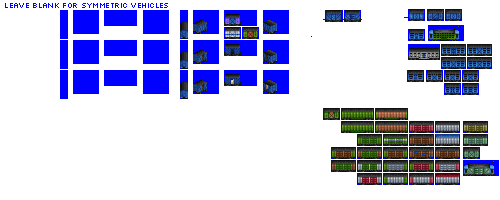
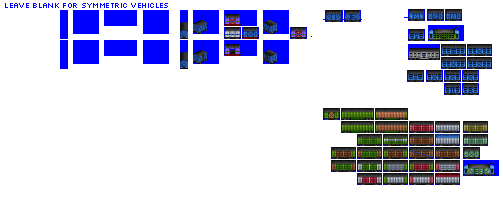
Change: proof-of-concept for repainting box vans

diff --git a/src/vehicles/box_cars.py b/src/vehicles/box_cars.py
@@ -12,7 +12,7 @@ def main():
     consist.add_unit(type=FreightCar,
                      vehicle_length=4)
 
-    
+
     #--------------- pony ----------------------------------------------------------------------
 
     # only type A for gen 1
@@ -23,9 +23,10 @@ def main():
                             subtype='A')
 
     consist.add_unit(type=FreightCar,
-                     vehicle_length=4)
+                     vehicle_length=4,
+                     chassis='2_axle_filled_16px')
 
-    
+
     # no new type A for gen 2, gen 1 type A continues
 
     consist = BoxCarConsist(roster='pony',
@@ -36,7 +37,7 @@ def main():
     consist.add_unit(type=FreightCar,
                      vehicle_length=6)
 
-    
+
     consist = BoxCarConsist(roster='pony',
                             base_numeric_id=560,
                             gen=3,
@@ -45,7 +46,7 @@ def main():
     consist.add_unit(type=FreightCar,
                      vehicle_length=4)
 
-    
+
     consist = BoxCarConsist(roster='pony',
                             base_numeric_id=2340,
                             gen=3,
@@ -54,7 +55,7 @@ def main():
     consist.add_unit(type=FreightCar,
                      vehicle_length=6)
 
-    
+
     consist = BoxCarConsist(roster='pony',
                             base_numeric_id=570,
                             gen=4,
@@ -63,7 +64,7 @@ def main():
     consist.add_unit(type=FreightCar,
                      vehicle_length=4)
 
-    
+
     consist = BoxCarConsist(roster='pony',
                             base_numeric_id=2500,
                             gen=4,
@@ -72,7 +73,7 @@ def main():
     consist.add_unit(type=FreightCar,
                      vehicle_length=6)
 
-    
+
     consist = BoxCarConsist(roster='pony',
                             base_numeric_id=2480,
                             gen=5,
@@ -81,7 +82,7 @@ def main():
     consist.add_unit(type=FreightCar,
                      vehicle_length=6)
 
-    
+
     consist = BoxCarConsist(roster='pony',
                             base_numeric_id=2490,
                             gen=5,
@@ -90,7 +91,7 @@ def main():
     consist.add_unit(type=FreightCar,
                      vehicle_length=8)
 
-    
+
     # no gen 6 box cars, cap to gen 5 in Pony
 
     #--------------- llama ----------------------------------------------------------------------
@@ -102,7 +103,7 @@ def main():
     consist.add_unit(type=FreightCar,
                      vehicle_length=5)
 
-    
+
     consist = BoxCarConsist(roster='llama',
                             base_numeric_id=600,
                             gen=2,
@@ -111,7 +112,7 @@ def main():
     consist.add_unit(type=FreightCar,
                      vehicle_length=6)
 
-    
+
     consist = BoxCarConsist(roster='llama',
                             base_numeric_id=610,
                             gen=3,
@@ -120,7 +121,7 @@ def main():
     consist.add_unit(type=FreightCar,
                      vehicle_length=7)
 
-    
+
     consist = BoxCarConsist(roster='llama',
                             base_numeric_id=620,
                             gen=1,
@@ -130,7 +131,7 @@ def main():
     consist.add_unit(type=FreightCar,
                      vehicle_length=6)
 
-    
+
     consist = BoxCarConsist(roster='llama',
                             base_numeric_id=1310,
                             gen=2,
@@ -140,7 +141,7 @@ def main():
     consist.add_unit(type=FreightCar,
                      vehicle_length=6)
 
-    
+
     #--------------- antelope ----------------------------------------------------------------------
     consist = BoxCarConsist(roster='antelope',
                             base_numeric_id=1750,
@@ -150,7 +151,7 @@ def main():
     consist.add_unit(type=FreightCar,
                      vehicle_length=6)
 
-    
+
     consist = BoxCarConsist(roster='antelope',
                             base_numeric_id=1740,
                             gen=2,
@@ -159,7 +160,7 @@ def main():
     consist.add_unit(type=FreightCar,
                      vehicle_length=8)
 
-    
+
     consist = BoxCarConsist(roster='antelope',
                             base_numeric_id=2100,
                             gen=1,
@@ -169,7 +170,7 @@ def main():
     consist.add_unit(type=FreightCar,
                      vehicle_length=5)
 
-    
+
     consist = BoxCarConsist(roster='antelope',
                             base_numeric_id=1850,
                             gen=2,
@@ -179,7 +180,7 @@ def main():
     consist.add_unit(type=FreightCar,
                      vehicle_length=6)
 
-    
+
     consist = BoxCarConsist(roster='antelope',
                             base_numeric_id=1860,
                             gen=3,
@@ -189,4 +190,3 @@ def main():
     consist.add_unit(type=FreightCar,
                      vehicle_length=8)
 
-    

diff --git a/src/gestalt_graphics/pipelines.py b/src/gestalt_graphics/pipelines.py
@@ -155,20 +155,43 @@ class ExtendSpriterowsForCompositedCargosPipeline(Pipeline):
                                             y_offset= -1 * graphics_constants.spriterow_height))
 
     def add_box_car_with_opening_doors_spriterows(self):
-        # !!!! one spriterow, no loading / loaded states, intended for tankers etc
-        crop_box_source = (0,
-                           self.base_offset,
-                           self.sprites_max_x_extent,
-                           self.base_offset + graphics_constants.spriterow_height)
-        box_car_spriterow_input_image = self.comp_chassis_and_body(Image.open(self.input_path).crop(crop_box_source))
-        # vehicle_generic_spriterow_input_image.show() # comment in to see the image when debugging
-        box_car_spriterow_input_as_spritesheet = self.make_spritesheet_from_image(box_car_spriterow_input_image)
+        # all wagons using this gestalt repaint the relevant box car sprite for the wagon's generation and subtype
+        box_car_id = self.consist.get_wagon_id(id_base='box_car', roster=self.consist.roster.id, gen=self.consist.gen, subtype=self.consist.subtype)
+        box_car_input_path = os.path.join(currentdir, 'src', 'graphics', self.consist.roster_id, box_car_id + '.png')
+        # two spriterows, closed doors and open doors
+        crop_box_source_1 = (0,
+                             self.base_offset,
+                             self.sprites_max_x_extent,
+                             self.base_offset + graphics_constants.spriterow_height)
+        crop_box_source_2 = (0,
+                             self.base_offset + graphics_constants.spriterow_height,
+                             self.sprites_max_x_extent,
+                             self.base_offset + 2 * graphics_constants.spriterow_height)
+        box_car_input_image_1 = self.comp_chassis_and_body(Image.open(box_car_input_path).crop(crop_box_source_1))
+        box_car_input_image_2 = self.comp_chassis_and_body(Image.open(box_car_input_path).crop(crop_box_source_2))
+        #vehicle_box_car_input_image_1.show() # comment in to see the image when debugging
+        #loading and loaded state will need pasting once each, so two crop boxes needed
+        crop_box_comp_dest_1 = (0,
+                                0,
+                                self.sprites_max_x_extent,
+                                graphics_constants.spriterow_height)
+        crop_box_comp_dest_2 = (0,
+                                graphics_constants.spriterow_height,
+                                self.sprites_max_x_extent,
+                                2 * graphics_constants.spriterow_height)
+        box_car_rows_image = Image.new("P", (graphics_constants.spritesheet_width, 2 * graphics_constants.spriterow_height))
+        box_car_rows_image.putpalette(DOS_PALETTE)
+
+        box_car_rows_image.paste(box_car_input_image_1, crop_box_comp_dest_1)
+        box_car_rows_image.paste(box_car_input_image_2, crop_box_comp_dest_2)
+
         crop_box_dest = (0,
                          0,
                          self.sprites_max_x_extent,
-                         graphics_constants.spriterow_height)
-        self.units.append(AppendToSpritesheet(box_car_spriterow_input_as_spritesheet, crop_box_dest))
-        #self.units.append(SimpleRecolour(recolour_map))
+                         2 * graphics_constants.spriterow_height)
+        box_car_rows_image_as_spritesheet = self.make_spritesheet_from_image(box_car_rows_image)
+        self.units.append(AppendToSpritesheet(box_car_rows_image_as_spritesheet, crop_box_dest))
+        self.units.append(SimpleRecolour(self.consist.gestalt_graphics.recolour_map))
 
     def add_bulk_cargo_spriterows(self):
         cargo_group_row_height = 2 * graphics_constants.spriterow_height

diff --git a/src/vehicles/reefer_cars.py b/src/vehicles/reefer_cars.py
@@ -11,9 +11,10 @@ def main():
                                subtype='A')
 
     consist.add_unit(type=FreightCar,
-                     vehicle_length=4)
+                     vehicle_length=4,
+                     chassis='2_axle_filled_16px')
 
-    
+
     consist = ReeferCarConsist(roster='pony',
                                base_numeric_id=720,
                                gen=3,
@@ -22,7 +23,7 @@ def main():
     consist.add_unit(type=FreightCar,
                      vehicle_length=4)
 
-    
+
     consist = ReeferCarConsist(roster='pony',
                                base_numeric_id=2560,
                                gen=4,
@@ -31,7 +32,7 @@ def main():
     consist.add_unit(type=FreightCar,
                      vehicle_length=4)
 
-    
+
     consist = ReeferCarConsist(roster='pony',
                                base_numeric_id=2590,
                                gen=4,
@@ -40,7 +41,7 @@ def main():
     consist.add_unit(type=FreightCar,
                      vehicle_length=6)
 
-    
+
     consist = ReeferCarConsist(roster='pony',
                                base_numeric_id=2570,
                                gen=5,
@@ -49,7 +50,7 @@ def main():
     consist.add_unit(type=FreightCar,
                      vehicle_length=6)
 
-    
+
     consist = ReeferCarConsist(roster='pony',
                                base_numeric_id=2580,
                                gen=5,
@@ -58,7 +59,7 @@ def main():
     consist.add_unit(type=FreightCar,
                      vehicle_length=8)
 
-    
+
     #--------------- llama ----------------------------------------------------------------------
     consist = ReeferCarConsist(roster='llama',
                                base_numeric_id=1390,
@@ -69,7 +70,7 @@ def main():
     consist.add_unit(type=FreightCar,
                      vehicle_length=6)
 
-    
+
     # no gen 2 reefers - straight to gen 3
     consist = ReeferCarConsist(roster='llama',
                                base_numeric_id=1400,
@@ -80,7 +81,7 @@ def main():
     consist.add_unit(type=FreightCar,
                      vehicle_length=6)
 
-    
+
     consist = ReeferCarConsist(roster='llama',
                                base_numeric_id=1410,
                                gen=1,
@@ -91,7 +92,7 @@ def main():
     consist.add_unit(type=FreightCar,
                      vehicle_length=6)
 
-    
+
     # no gen 2 reefers - straight to gen 3
     consist = ReeferCarConsist(roster='llama',
                                base_numeric_id=1420,
@@ -103,7 +104,7 @@ def main():
     consist.add_unit(type=FreightCar,
                      vehicle_length=6)
 
-    
+
     #--------------- antelope ----------------------------------------------------------------------
     consist = ReeferCarConsist(roster='antelope',
                                base_numeric_id=1570,
@@ -114,7 +115,7 @@ def main():
     consist.add_unit(type=FreightCar,
                      vehicle_length=8)
 
-    
+
     consist = ReeferCarConsist(roster='antelope',
                                base_numeric_id=1900,
                                gen=1,
@@ -125,4 +126,3 @@ def main():
     consist.add_unit(type=FreightCar,
                      vehicle_length=6)
 
-    

diff --git a/src/gestalt_graphics/graphics_constants.py b/src/gestalt_graphics/graphics_constants.py
@@ -36,7 +36,12 @@ silo_livery_recolour_maps = (("OIL_", {136: 1, 137: 2, 138: 3, 139: 4,
                                          140: 20, 141: 21, 142: 22, 143: 23}))
 
 box_livery_recolour_maps = (# see note on DFLT above
-                           ("DFLT", body_recolour_CC1),)
+                           ("DFLT", {136: CC1, 137: CC1+1, 138: CC1+2, 139: CC1+3,
+                                     140: CC1+4, 141: CC1+5, 142: CC1+6, 143: CC1+7,
+                                     40: CC1, 41: CC1+1, 42: CC1+2, 43: CC1+3,
+                                     44: CC1+4, 45: CC1+5, 46: CC1+6, 47: CC1+7,
+                                     CC2: CC1, CC2+1: CC1+1, CC2+2: CC1+2, CC2+3: CC1+3,
+                                     CC2+4: CC1+4, CC2+5: CC1+5, CC2+6: CC1+6, CC2+7: CC1+7}),)
 
 caboose_livery_recolour_maps = (# see note on DFLT above
                                ("DFLT", body_recolour_CC1),)
@@ -45,7 +50,12 @@ fruit_veg_livery_recolour_maps = (# see note on DFLT above
                                  ("DFLT", body_recolour_CC1),)
 
 refrigerated_livery_recolour_maps = (# see note on DFLT above
-                                    ("DFLT", body_recolour_CC1),)
+                                    ("DFLT", {136: 18, 137: 19, 138: 20, 139: 21,
+                                              140: 22, 141: 13, 142: 14, 143: 15,
+                                              40: 18, 41: 19, 42: 20, 43: 21,
+                                              44: 22, 45: 13, 46: 14, 47: 15,
+                                              CC2: CC1, CC2+1: CC1+1, CC2+2: CC1+2, CC2+3: CC1+3,
+                                              CC2+4: CC1+4, CC2+5: CC1+5, CC2+6: CC1+6, CC2+7: CC1+7}),)
 
 livestock_livery_recolour_maps = (# see note on DFLT above
                                  ("DFLT", body_recolour_CC2),)

diff --git a/src/gestalt_graphics/gestalt_graphics.py b/src/gestalt_graphics/gestalt_graphics.py
@@ -127,7 +127,7 @@ class GestaltGraphicsBoxCarOpeningDoors(GestaltGraphics):
         self.pipeline = pipelines.get_pipeline('extend_spriterows_for_composited_cargos_pipeline')
         # common format for recolour_maps provides multiple remaps
         # but just one livery remap is supported for this gestalt, and should be the first in the remap list
-        self.recolour_map = recolour_maps[0]
+        self.recolour_map = recolour_maps[0][1]
 
     @property
     def generic_rows(self):
